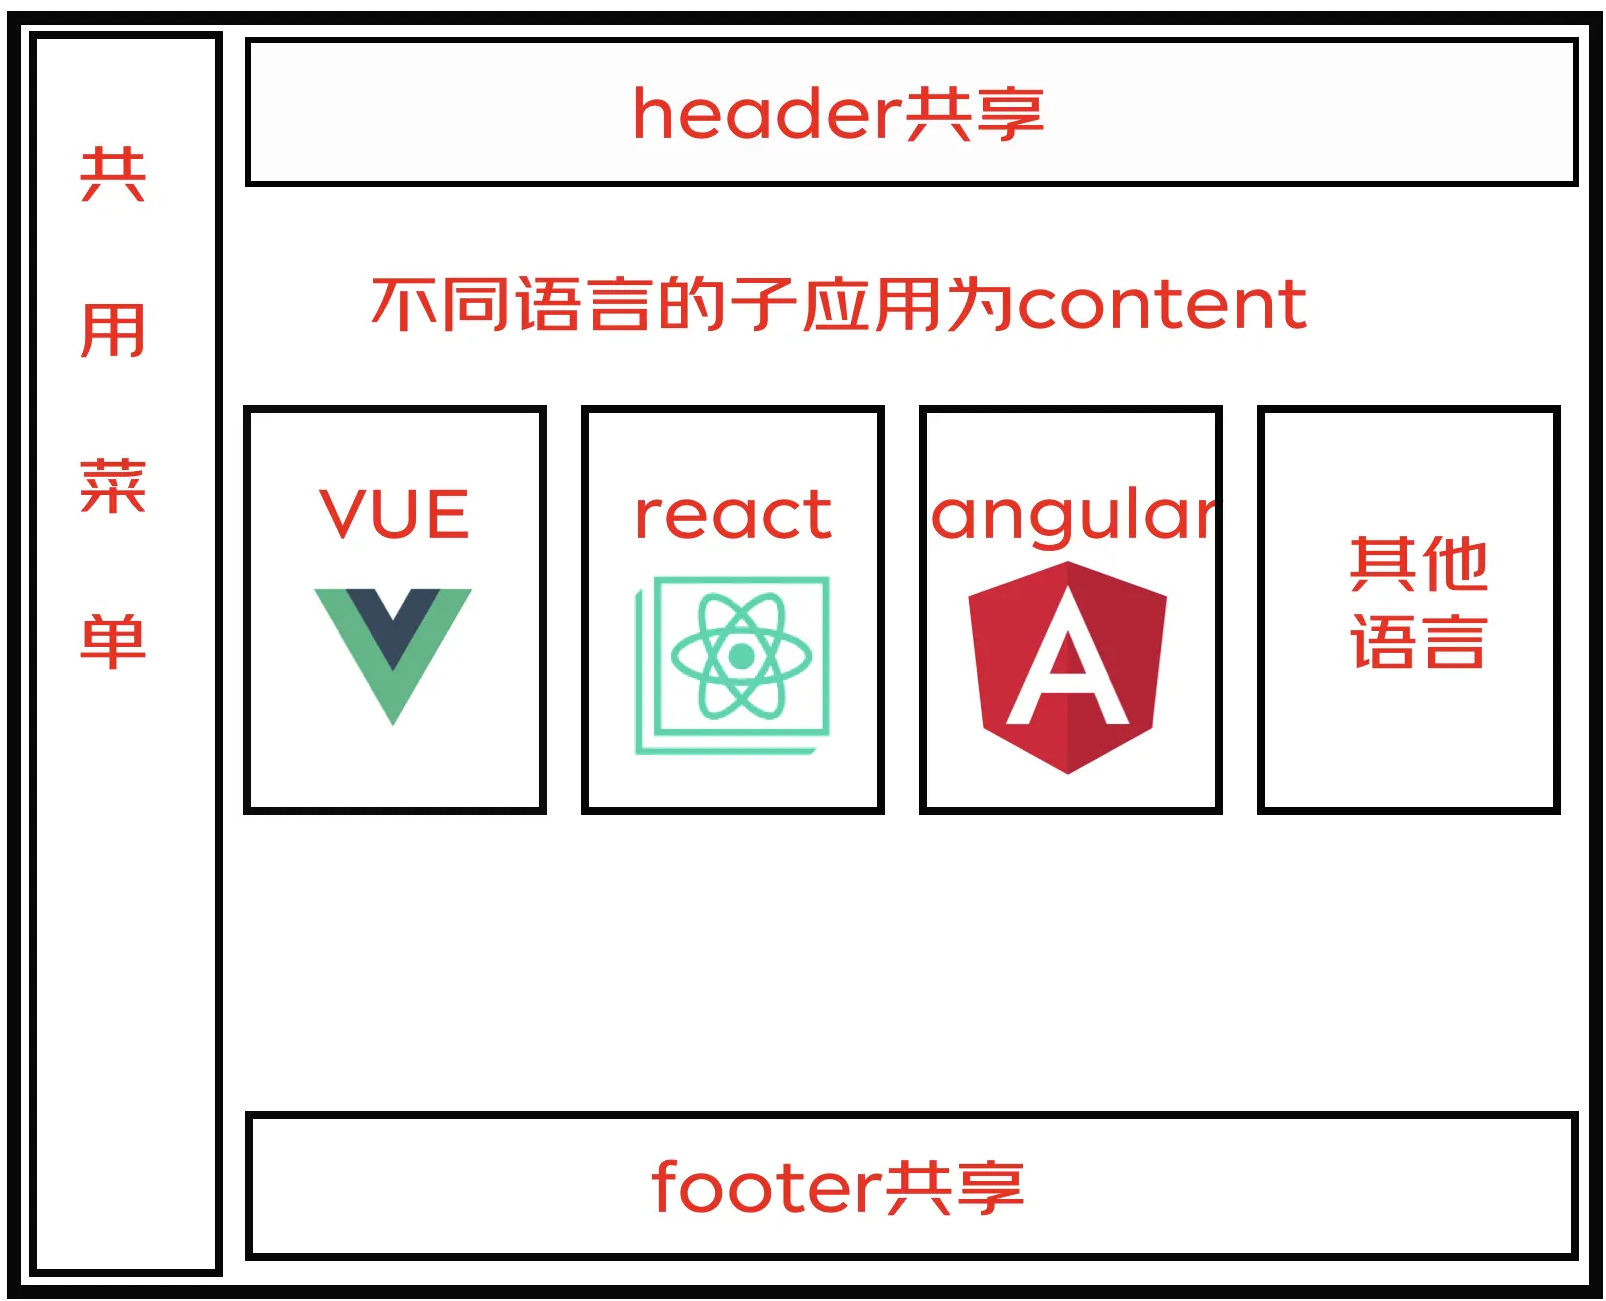
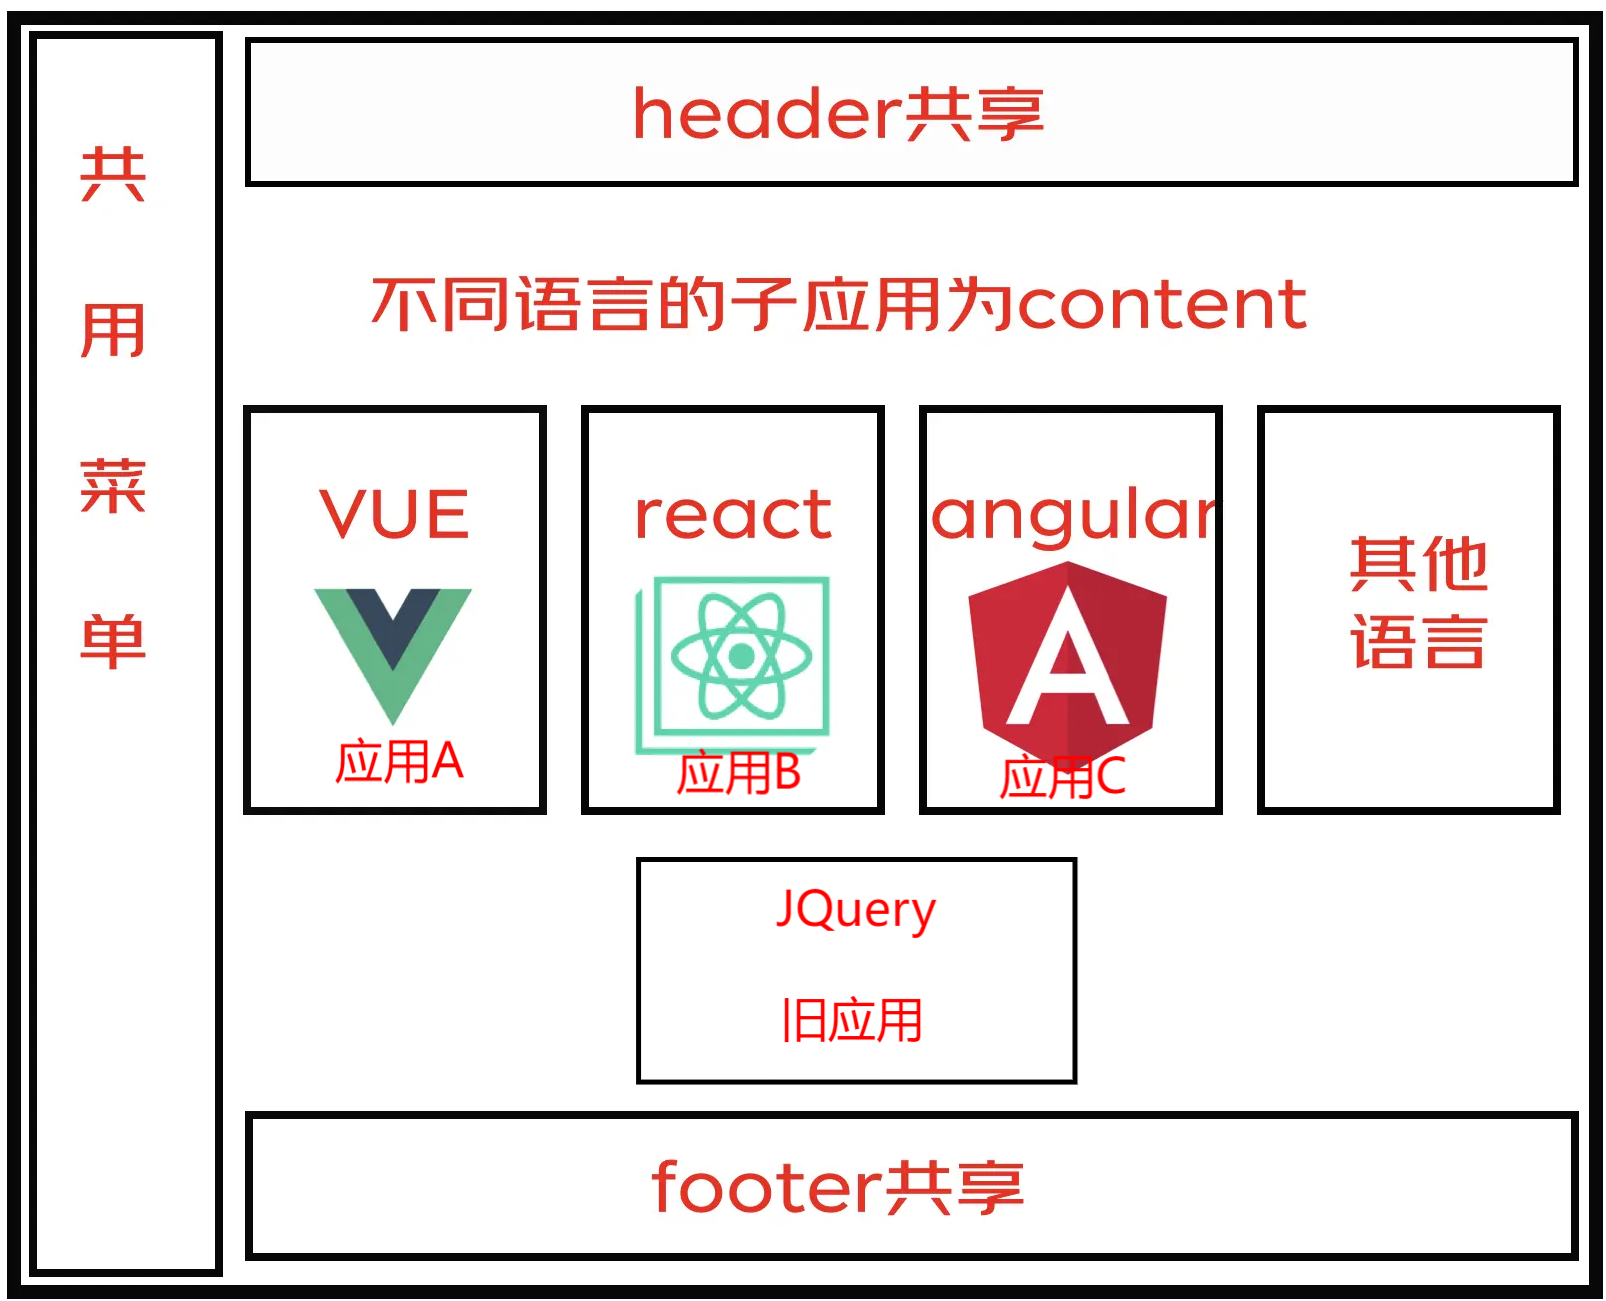
feat:添加微前端重构方案

diff --git a/docs/article/微前端/使用微前端重构项目.md b/docs/article/微前端/使用微前端重构项目.md
@@ -19,14 +19,23 @@ tag:
 
 
 
+----
+
+
+
 ## 需求分析
 
 **原系统存在以下问题：**
 
 1. 系统使用 JQuery + PHP 技术开发、技术老旧过时，多数技术已停止更新维护
+
 2. 模块繁多，一次性全部重构上线不现实
+
 3. 使用前后端不分离开发，重构使用前后端分离技术开发，难以兼容
+
 4. 新旧技术不兼容，权限管理困难
+
+   
 
 由于原系统任然有许多模块在迭代维护，我们不能直接抛弃原系统模块重新开发。
 
@@ -38,45 +47,151 @@ tag:
 
 
 
+---
+
 
 
 ## 技术分析
 
-原系统技术栈：
+### 原系统技术栈
 
 *  PHP + JQuery 前后端不分离；
 * 部分页面使用 Vue2 + ElementUI，使用 CDN 方式引入；
 
 原项目页面结构：
 
+* 侧边菜单栏
+* 内容区
+
+原项目使用 iframe 实现微前端结构，使用了统一的菜单和统一头部，内容区域使用 iframe 嵌入不同的页面
+
+然而整套项目时候 PHP + JQuery 实现；
+
+<img src="../images/image-20240530155825694.png" style="zoom:67%;" />
+
+### **重构方案**
+
+* **基座**：可以使用 Vue/React 重构基座；
+  * 基座负责控制子应用、登录、权限、状态、路由
+* **旧项目容器**：使用 Vue/React 搭建一个原项目子应用，通过路由 + iframe 模式重构子项目；
+  * 原项目子应用负责渲染原页面
+* **新项目容器**：使用  Vue/React 搭建一个新项目子应用，负责开发新需求模块；
 
 
-## 技术方案选型
+
+1. 基座控制权限和路由、状态等，根据路由渲染不同的子应用；
+2. 当有新的需求模块时候，使用新应用开发；
+3. 当完成旧应用某个模块时，在旧应用容器中下线对应模块路由；
+4. 将`新的模块路由/重构后的模块路由`更新到基座容器路由表中。
+
+下面会详细分析三个应用的技术方案
+
+---
+
+
 
 ## 技术架构
 
 ![](../images/image-20240529164117226.png)
 
-![](../images/image-20240529164157741.png)
+![前端技术框架](../images/前端技术框架.png)
+
+### **微前端**
+
+提供基座容器
+
+### **组件库**
+
+为主应用和子应用提供统一组件：
+
+* 各应用组件资源共享
+* 统一的配置化组件库
+* 统一的样式结构
+
+### **插件库**
+
+为主应用和子应用提供统一插件：
+
+* 各应用提供统一的逻辑处理
+* 登录、token校验、权限控制
+* 监控、错误处理、http
+
+### **脚手架**
+
+脚手架提供创建子应用项目统一配置和文件结构
+
+* 统一的文件结构
+* 统一的文件配置
+
+### **CICD**
+
+统一的CICD流程为各个子应用和主应用提供统一的构建/部署流程
 
 
 
-## 项目分析
+---
+
+
+
+## 项目构架
+
+### 主应用（基座）
 
 最外层是**基座，** 基座是微前端应用集成的一个重要平台。
 
 基座同时也肩负着管理公共资源、依赖、规范的责任。
 
+#### **职责**
+
 基座主要有以下职责：
 
 1. 子应用集成，给子应用提供渲染容器
 2. 权限管理
-3. 会话管理
-4. 路由、菜单管理
+3. 路由和菜单管理
+4. 会话管理
 5. 主题管理
 6. 共享依赖
 7. 多语言管理
 8. 登录页面
+9. 登录管理：登录、token 校验、token 刷新
+10. 404 页面
+
+#### **基座结构**
+
+基座提供基础的功能和菜单栏，作为渲染容器。因此基座的页面结构为：
+
+* 登录页面
+* 内容页面：侧边栏菜单、header、footer
+
+
 
 <img src="../images/image-20240529104148679.png" style="zoom: 50%;" />
 
+
+
+![](../images/image-20240530145449982.png)
+
+#### 基座权限管理和登录方案
+
+1.统一授权系统只关心主应用配置，子应用菜单权限，接口权限由各个子系统各自管理（可在stater中统一继承）
+
+2.子系统可与统一授权同步用户，由统一授权系统认证，子系统分配权限，也可以不同步用户（用户登陆主应用后，点击某个子系统重新输入子系统账号密码进入）
+
+3.可快速响应需求 前端不限框架技术，不关心用户模块，同理后端也只关心业务模块
+
+![](../images/image-20240530145633793.png)
+
+
+
+### 子应用（旧项目容器）
+
+旧项目容器项目，使用 Vue/React 搭建，负责管理旧应用路由和页面渲染：
+
+1. 封装一个 iframe 组件，负责渲染旧应用页面内容
+2. 通过路由参数传入 iframe 组件，渲染不同的页面
+
+
+
+### 新应用
+
+新需求模块和重构的需求模块在新应用中开发。
